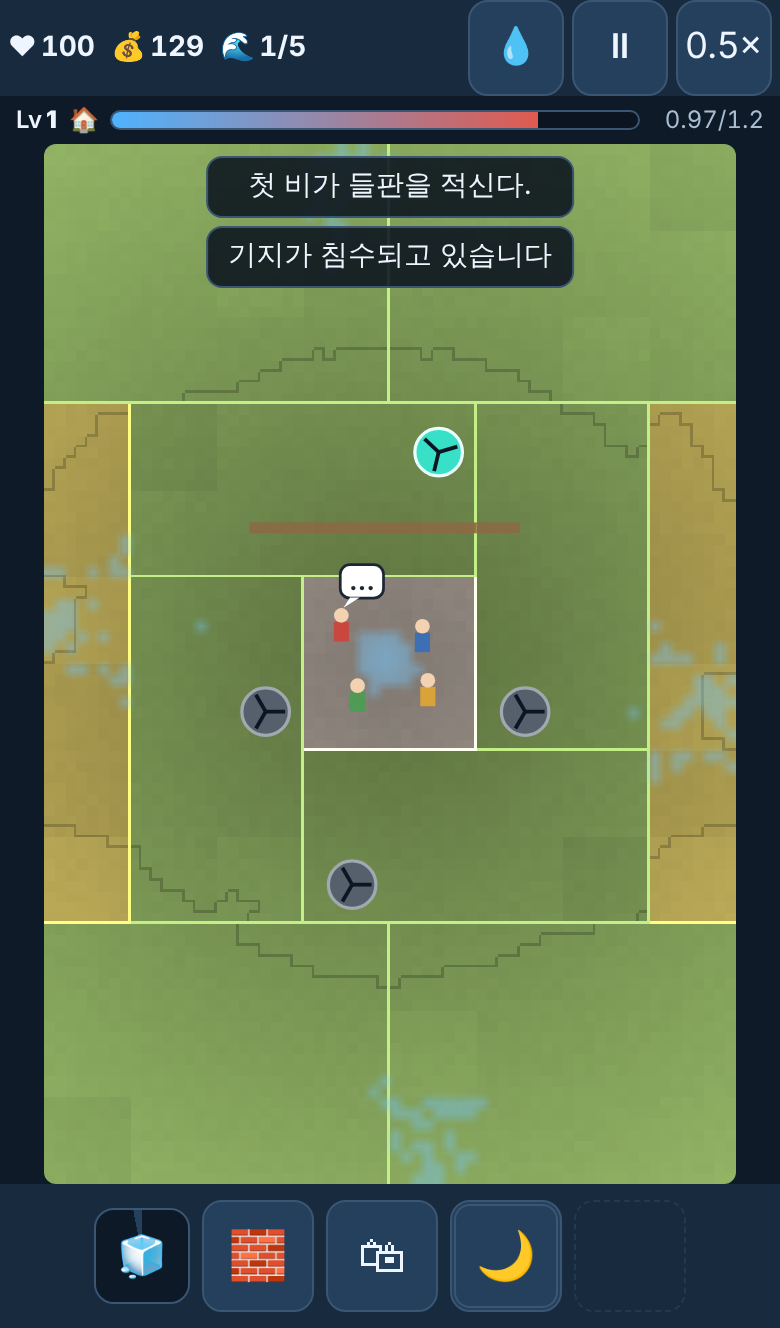
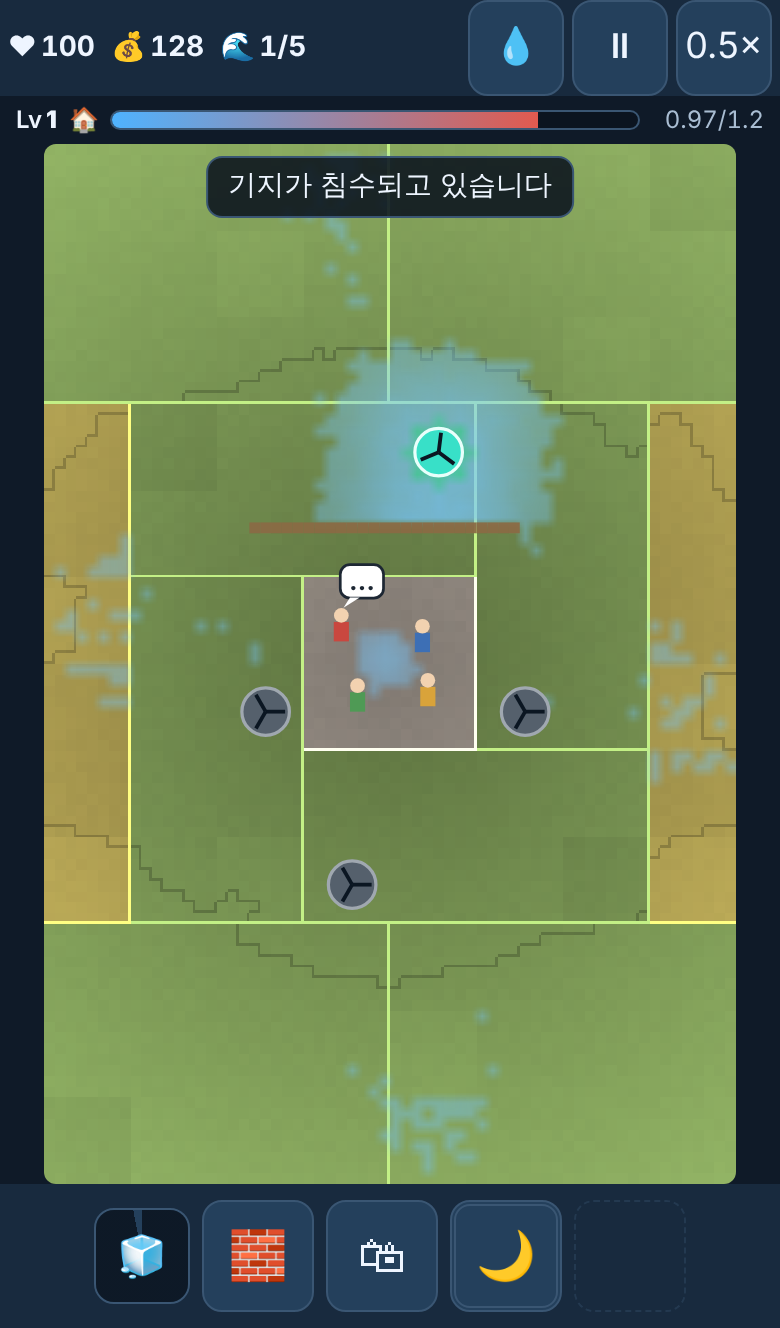
feat: tint water that is being pumped or soaked up (Water TD benchmark B3)
Running pump discs show teal water with a moving stripe; wetland/forest
cells with absorption on and the green-levee inner side show green. The
sink mask is rebuilt per frame without allocation; render stays < 1 ms.

Design: docs/DESIGN_REVIEW_2026-11.md §2.1b (B3)

Claude-Session: https://claude.ai/code/session_01CzaZN3bPZRbbrP4LsHFEau

diff --git a/src/render/waterLayer.ts b/src/render/waterLayer.ts
@@ -1,25 +1,59 @@
-import type { SimGrid } from '../core/types.ts';
-import { ICE_RGB, WATER, WATER_RGB } from './palette.ts';
+import { ZT } from '../core/types.ts';
+import type { SimGrid, SimWorld } from '../core/types.ts';
+import { DRAIN_RGB, ICE_RGB, SOAK_RGB, WATER, WATER_RGB } from './palette.ts';
 
 /**
  * Water layer: one 64×96 ImageData (1 px per cell) written per frame, drawn once with
  * `drawImage` (§13). Buffers are reused — no per-frame allocation (§18).
  */
-export interface WaterLayer { canvas: OffscreenCanvas | HTMLCanvasElement; ctx: CanvasRenderingContext2D; img: ImageData; }
+export interface WaterLayer { canvas: OffscreenCanvas | HTMLCanvasElement; ctx: CanvasRenderingContext2D; img: ImageData; sink: Uint8Array; }
 
 export function createWaterLayer(g: SimGrid, make: (w: number, h: number) => OffscreenCanvas | HTMLCanvasElement): WaterLayer {
   const canvas = make(g.width, g.height);
   const ctx = canvas.getContext('2d') as CanvasRenderingContext2D;
-  return { canvas, ctx, img: ctx.createImageData(g.width, g.height) };
+  return { canvas, ctx, img: ctx.createImageData(g.width, g.height), sink: new Uint8Array(g.width * g.height) };
 }
 
-/** RGBA for a water depth (exported for tests). Deep water alternates shade (stripe cue). */
-export function waterColor(w: number, ice: number, stripe: boolean, out: number[]): void {
+/** Sink kinds per cell (B3). */
+export const SINK = { none: 0, pump: 1, soak: 2 } as const;
+
+/**
+ * Mark where water is being removed this frame: discs of running pumps, wetland / forest cells
+ * while absorption is on, and the inner side of levees after the green-levee fusion.
+ */
+export function markSinks(out: Uint8Array, world: SimWorld): void {
+  const g = world.grid;
+  out.fill(0);
+  if (world.mods.absorbMul > 0) for (let i = 0; i < out.length; i++) { const z = g.ztype[i]; if (z === ZT.wetland || z === ZT.forest) out[i] = SINK.soak; }
+  const dist = world.distToBase;
+  if (world.mods.greenLevee > 0 && dist) {
+    const W = g.width;
+    for (let i = 0; i < out.length; i++) {
+      if (g.wall[i] <= 0) continue;
+      for (let k = 0; k < 4; k++) { // no per-frame allocation (§18)
+        const j = k === 0 ? i + 1 : k === 1 ? i - 1 : k === 2 ? i + W : i - W;
+        if (j >= 0 && j < out.length && g.wall[j] <= 0 && dist[j] < dist[i]) out[j] = SINK.soak;
+      }
+    }
+  }
+  world.pumps.forEach((p, k) => { if (p.on) for (const c of world.pumpCells[k]) out[c] = SINK.pump; });
+}
+
+/**
+ * RGBA for a water depth (exported for tests). Deep water alternates shade (stripe cue).
+ * `sink` tints water that is being pumped (teal) or soaked up (green) — B3.
+ */
+export function waterColor(w: number, ice: number, stripe: boolean, out: number[], sink = 0): void {
   let r = 0, gg = 0, b = 0, a = 0;
   if (w >= WATER.clear) {
     if (w <= WATER.shallow) { [r, gg, b] = WATER_RGB.sky; a = 90 + 110 * (w / WATER.shallow); }
     else if (w <= WATER.deep) { [r, gg, b] = WATER_RGB.blue; a = 200 + 40 * ((w - WATER.shallow) / (WATER.deep - WATER.shallow)); }
     else { [r, gg, b] = WATER_RGB.navy; a = 245; if (stripe) { r += 30; gg += 30; b += 40; } }
+  }
+  if (sink && w >= WATER.clear) {
+    const c = sink === SINK.pump ? DRAIN_RGB : SOAK_RGB, k = sink === SINK.pump && stripe ? 0.75 : 0.55;
+    r = r * (1 - k) + c[0] * k; gg = gg * (1 - k) + c[1] * k; b = b * (1 - k) + c[2] * k;
+    a = Math.max(a, 170);
   }
   if (ice >= WATER.clear) {
     const k = Math.min(1, ice / 0.5) * 0.8;
@@ -30,12 +64,13 @@ export function waterColor(w: number, ice: number, stripe: boolean, out: number[
 }
 
 const tmp = [0, 0, 0, 0];
-/** Refresh the water image from the grid. */
-export function updateWater(L: WaterLayer, g: SimGrid): void {
-  const d = L.img.data, W = g.width;
+/** Refresh the water image from the grid; `phase` shifts the pump stripe (0 when motion is reduced). */
+export function updateWater(L: WaterLayer, world: SimWorld, phase = 0): void {
+  const g = world.grid, d = L.img.data, W = g.width;
+  markSinks(L.sink, world);
   for (let i = 0; i < g.w.length; i++) {
     const x = i % W, y = (i / W) | 0;
-    waterColor(g.w[i], g.ice[i], ((x + y) & 1) === 0, tmp);
+    waterColor(g.w[i], g.ice[i], ((x + y + phase) & 1) === 0, tmp, L.sink[i]);
     const o = i * 4;
     d[o] = tmp[0]; d[o + 1] = tmp[1]; d[o + 2] = tmp[2]; d[o + 3] = tmp[3];
   }

diff --git a/tests/unit/ui/play-ui_test.ts b/tests/unit/ui/play-ui_test.ts
@@ -17,6 +17,8 @@ import { expireToasts, pushToast, TOAST_MAX, TOAST_MS } from '../../../src/ui/wi
 import { createT } from '../../../src/ui/i18n.ts';
 import { fitBoard } from '../../../src/render/canvas.ts';
 import { villagerMood } from '../../../src/render/board.ts';
+import { SINK, markSinks, waterColor } from '../../../src/render/waterLayer.ts';
+import { ZT } from '../../../src/core/types.ts';
 import type { SkillView } from '../../../src/input/targeting.ts';
 
 // type-only skill views (targeting is tested without the rules layer here)
@@ -225,4 +227,26 @@ test('B1: villager mood follows the base water ratio', () => {
   assert.equal(villagerMood(0.49, false), 'calm');
   assert.equal(villagerMood(0.5, false), 'uneasy');
   assert.equal(villagerMood(1, true), 'alarmed');
+});
+
+test('B3: water being pumped or soaked up is tinted; still water is not', () => {
+  const m = loadMap(MAP);
+  const L = { sink: new Uint8Array(64 * 96) };
+  m.world.pumps[0].on = true;
+  markSinks(L.sink, m.world);
+  assert.equal(L.sink[m.world.pumps[0].cell], SINK.pump);
+  assert.equal(L.sink[0], SINK.none);
+  m.world.mods.absorbMul = 1;
+  const wet = 10 * 64 + 10;
+  m.world.grid.ztype[wet] = ZT.wetland;
+  markSinks(L.sink, m.world);
+  assert.equal(L.sink[wet], SINK.soak);
+  const plain = [0, 0, 0, 0], pumped = [0, 0, 0, 0];
+  waterColor(0.2, 0, false, plain);
+  waterColor(0.2, 0, false, pumped, SINK.pump);
+  const dist = Math.hypot(pumped[0] - plain[0], pumped[1] - plain[1], pumped[2] - plain[2]);
+  assert.ok(dist >= 60, `pumped water is visibly teal (distance ${dist.toFixed(0)})`);
+  const dry = [0, 0, 0, 0];
+  waterColor(0, 0, false, dry, SINK.pump);
+  assert.equal(dry[3], 0, 'no tint without water');
 });

diff --git a/src/render/palette.ts b/src/render/palette.ts
@@ -8,6 +8,8 @@ export const NO_ZONE: [number, number, number] = [110, 120, 110];
 export const WATER = { clear: 0.02, shallow: 0.3, deep: 1.0 } as const;
 export const WATER_RGB = { sky: [120, 200, 255], blue: [40, 110, 220], navy: [20, 40, 120] } as const;
 export const ICE_RGB = [220, 245, 255] as const;
+/** Water being removed (B3): pumped (teal, with a moving stripe) and soaked up (green). */
+export const DRAIN_RGB = [40, 230, 170] as const, SOAK_RGB = [110, 200, 120] as const;
 export const LEVEE = '#8a6a44', LEVEE_WEAK = '#d0433a', TEMP_WALL = '#c8b27a';
 export const PUMP_ON = '#38e0c8', PUMP_OFF = '#55606c', GATE_OPEN = '#9ad', GATE_CLOSED = '#e8c25a';
 export const HIGHLIGHT = '#ffffff', DIM = 'rgba(8,14,24,0.55)', INLET_ARROW = 'rgba(120,200,255,0.9)';

diff --git a/src/render/board.ts b/src/render/board.ts
@@ -80,7 +80,7 @@ export function drawBoard(b: Board, v: BoardView): void {
   ctx.setTransform(1, 0, 0, 1, 0, 0);
   ctx.imageSmoothingEnabled = false;
   ctx.drawImage(b.terrain as CanvasImageSource, 0, 0, cw, ch);
-  updateWater(b.water, g);
+  updateWater(b.water, world, Math.floor(v.time / 250));
   ctx.imageSmoothingEnabled = true;
   ctx.drawImage(b.water.canvas as CanvasImageSource, 0, 0, cw, ch);
 

diff --git a/docs/DESIGN_REVIEW_2026-11.md b/docs/DESIGN_REVIEW_2026-11.md
@@ -173,7 +173,7 @@
 |---|---|---|---|---|
 | B1 ✅ | **기지 주민 감정 표시** (구현 2026-11-09: 주민 4명, 기지 수위/임계 0.5↑ "…", 1↑ "!" + 뛰기, 웨이브 방어 후 ♥): 기지 주변 주민 스프라이트 2~4명, 수위에 따라 말풍선(평온 → 걱정 → 경고). 토스트·진동과 함께 위험을 감정으로 전달 | T=21~26 | 🟢 낮음 (렌더 오버레이) | GD §9.3 HUD, 오디오 매핑 §17 |
 | B2 ✅ | **0.5× 느리게** 추가 (구현 2026-11-09: 배속 버튼 1× → 2× → 0.5×): 모바일에서 구역 탭·스와이프 정밀도 보조, 접근성 | 스크린샷 1·5 | 🟢 낮음 | DETAILED §14, `play.ts` 배속 |
-| B3 | **물 상태 색**: 얼음(있음) 외에 펌프로 빠지는 물·습지에 흡수되는 물을 다른 색조로 표시해 "내 조작이 효과를 내는 곳"을 보이게 | 상태별 색 가독성 | 🟡 중간 | DETAILED §13 물 레이어 |
+| B3 ✅ | **물 상태 색** (구현 2026-11-09: 가동 펌프 반경 = 청록 + 움직이는 줄무늬, 습지·숲 흡수/녹색 제방 안쪽 = 초록): 얼음(있음) 외에 펌프로 빠지는 물·습지에 흡수되는 물을 다른 색조로 표시해 "내 조작이 효과를 내는 곳"을 보이게 | 상태별 색 가독성 | 🟡 중간 | DETAILED §13 물 레이어 |
 | B4 | **한 맵에 기지 여러 개 / 포털 유입원**: 진영 확장(터전이 넓어짐)을 맵 안에서 표현 — 확장 지역·후반 맵 후보 | 스크린샷 5, T=35 | 🔴 큼 (피해·점수 판정 다중화) | STORY_WORLD_EXPANSION §3.1, GD §17 |
 | B5 | **기하학적 맵 실루엣**: 지금 맵은 8×12 타일 경사 분지라 모양이 단조로움. 섬·수로를 의도적으로 그린 맵(나선·고리)을 확장 맵에서 시도 | 스크린샷 3~6 | 🟡 중간 (맵 데이터) | DETAILED §11, GD §26 |
 | B6 | **툴팁 미리보기**: 레벨업 카드에 스킬 효과 짧은 애니메이션/정지 미리보기 | T=40 | 🟡 중간 | DETAILED §15.4 |

diff --git a/production/epics/physics-td/EPIC.md b/production/epics/physics-td/EPIC.md
@@ -68,5 +68,5 @@ Skill-bot results (5 seeds; clears / avg HP): 정석 둑지기 @ 둑마을 5/5 H
   wetland absorption; the bot does not upkeep the dams. Options: smaller lakes, or dam upkeep in play.
 - Defeat cause heatmap (DETAILED §15.5), text size 120% (§15.6), sound (no audio assets yet).
 - Water TD benchmark candidates (`docs/DESIGN_REVIEW_2026-11.md` §2.1b): **B1 villager mood and
-  B2 0.5× speed are done (2026-11-09)**; B3 water state tints, B4 multi-base maps, B5 geometric map
+  B2 0.5× speed, B3 water state tints are done (2026-11-09)**; B4 multi-base maps, B5 geometric map
   silhouettes, B6 card previews remain.
